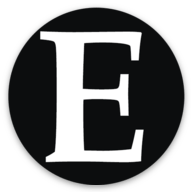
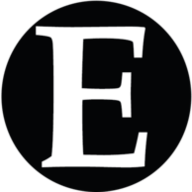
ember upgrade

Changed region(s): [[0.0, 0.0, 1.0, 1.0]]

diff --git a/app/index.html b/app/index.html
@@ -12,23 +12,11 @@
     <link href='//fonts.googleapis.com/css?family=Noto+Sans:700|Playfair+Display' rel='stylesheet' type='text/css'>
     <link href='//cdnjs.cloudflare.com/ajax/libs/devicons/1.8.0/css/devicons.min.css' rel='stylesheet'>
 
-    <link rel="apple-touch-icon" sizes="57x57" href="/apple-touch-icon-57x57.png">
-    <link rel="apple-touch-icon" sizes="60x60" href="/apple-touch-icon-60x60.png">
-    <link rel="apple-touch-icon" sizes="72x72" href="/apple-touch-icon-72x72.png">
-    <link rel="apple-touch-icon" sizes="76x76" href="/apple-touch-icon-76x76.png">
-    <link rel="apple-touch-icon" sizes="114x114" href="/apple-touch-icon-114x114.png">
-    <link rel="apple-touch-icon" sizes="120x120" href="/apple-touch-icon-120x120.png">
-    <link rel="apple-touch-icon" sizes="144x144" href="/apple-touch-icon-144x144.png">
-    <link rel="apple-touch-icon" sizes="152x152" href="/apple-touch-icon-152x152.png">
-    <link rel="apple-touch-icon" sizes="180x180" href="/apple-touch-icon-180x180.png">
+
+    <link rel="apple-touch-icon" sizes="180x180" href="/apple-touch-icon.png">
     <link rel="icon" type="image/png" href="/favicon-32x32.png" sizes="32x32">
-    <link rel="icon" type="image/png" href="/android-chrome-192x192.png" sizes="192x192">
-    <link rel="icon" type="image/png" href="/favicon-96x96.png" sizes="96x96">
     <link rel="icon" type="image/png" href="/favicon-16x16.png" sizes="16x16">
     <link rel="manifest" href="/manifest.json">
-    <link rel="mask-icon" href="/safari-pinned-tab.svg" color="#5bbad5">
-    <meta name="msapplication-TileColor" content="#da532c">
-    <meta name="msapplication-TileImage" content="/mstile-144x144.png">
     <meta name="theme-color" content="#ffffff">
 
     {{content-for 'head'}}

diff --git a/ember-cli-build.js b/ember-cli-build.js
@@ -11,18 +11,5 @@ module.exports = function(defaults) {
   app.import('bower_components/bootstrap-sass/assets/javascripts/bootstrap/collapse.js');
   app.import('bower_components/bootstrap-sass/assets/javascripts/bootstrap/transition.js');
 
-  // Use `app.import` to add additional libraries to the generated
-  // output files.
-  //
-  // If you need to use different assets in different
-  // environments, specify an object as the first parameter. That
-  // object's keys should be the environment name and the values
-  // should be the asset to use in that environment.
-  //
-  // If the library that you are including contains AMD or ES6
-  // modules that you would like to import into your application
-  // please specify an object with the list of modules as keys
-  // along with the exports of each module as its value.
-
   return app.toTree();
 };

diff --git a/tests/index.html b/tests/index.html
@@ -21,7 +21,7 @@
     {{content-for "body"}}
     {{content-for "test-body"}}
 
-    <script src="{{rootURL}}testem.js" integrity=""></script>
+    <script src="/testem.js" integrity=""></script>
     <script src="{{rootURL}}assets/vendor.js"></script>
     <script src="{{rootURL}}assets/test-support.js"></script>
     <script src="{{rootURL}}assets/egorphilippov.js"></script>
